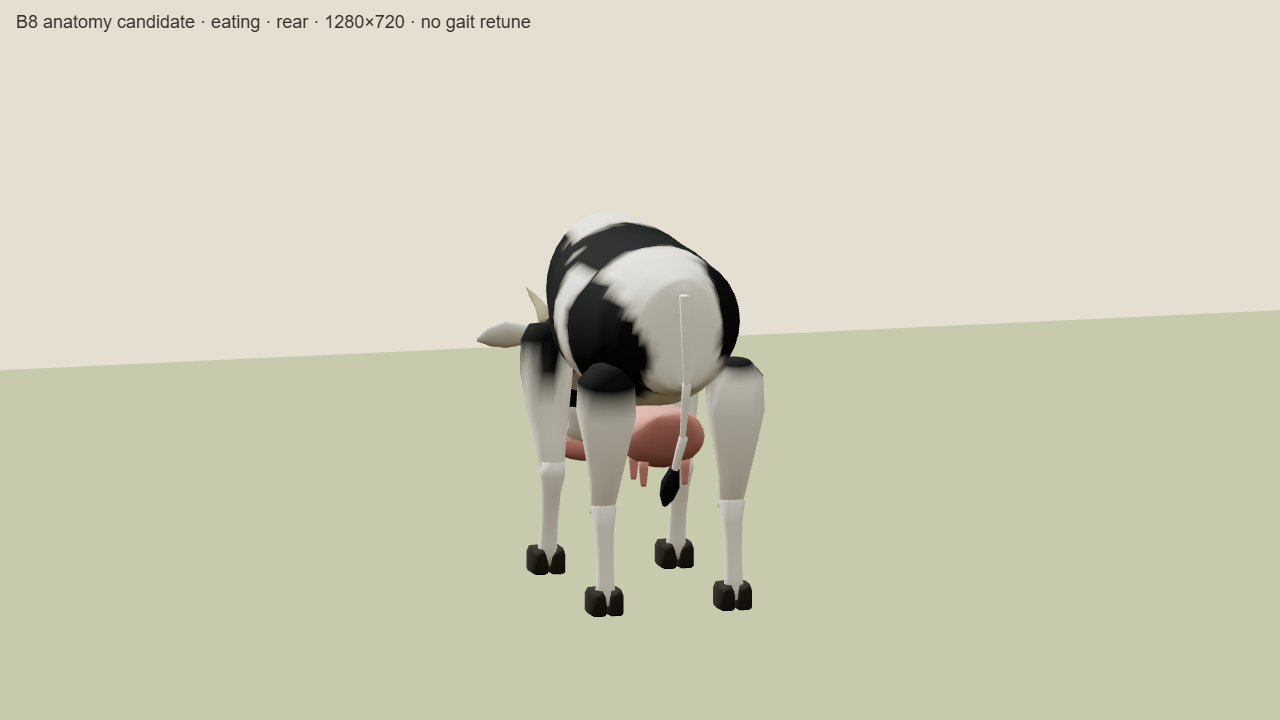
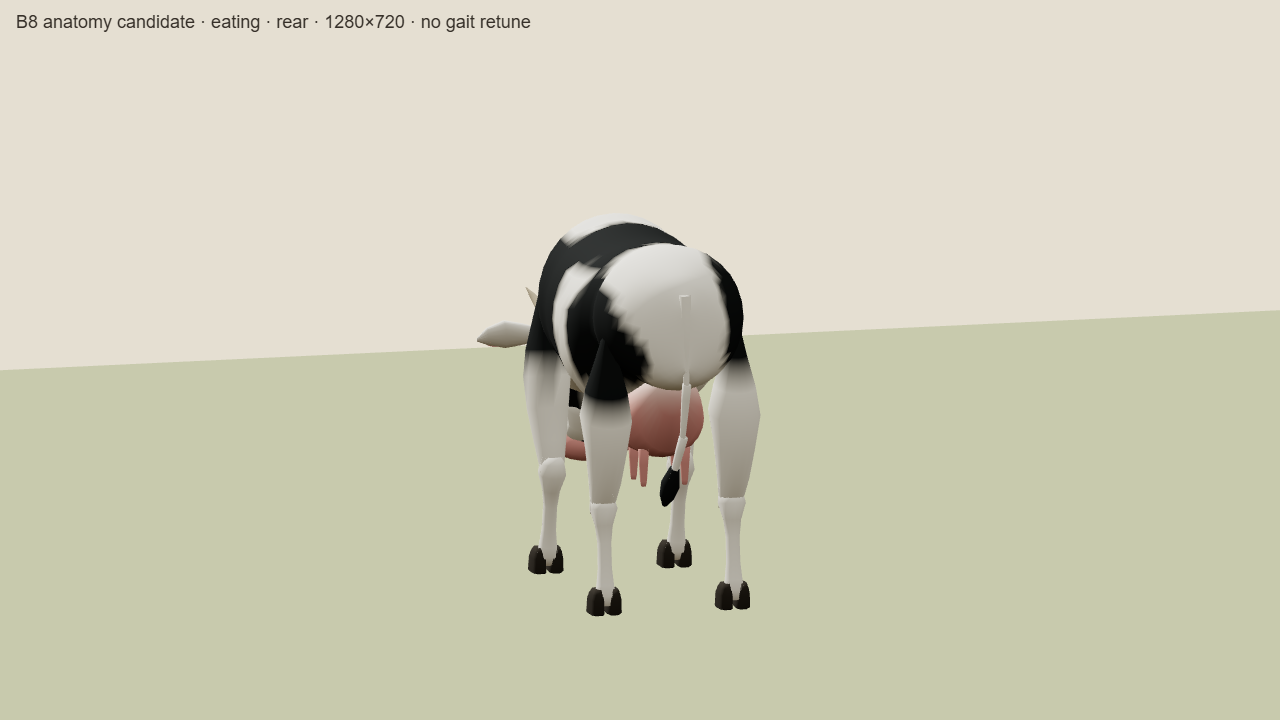
Refine B8 torso contours, hoof taper and udder attachment

diff --git a/farm3d/cow3d.js b/farm3d/cow3d.js
@@ -50,12 +50,16 @@ function buildTemplate(){
   }
   const oval=(col,p,scale,b=0,rx=0,rz=0,detail=12)=>add(new THREE.SphereGeometry(1,detail,Math.round(detail*.65)),col,p,scale,b,rx,rz);
   const subdivide=(sections,steps)=>sections.flatMap((a,i)=>i===sections.length-1?[a]:Array.from({length:steps},(_,j)=>a.map((x,k)=>mix(x,sections[i+1][k],j/steps))));
+  const smoothSections=(sections,steps)=>sections.flatMap((a,i)=>i===sections.length-1?[a]:Array.from({length:steps},(_,j)=>a.map((x,k)=>{
+    const p=sections[Math.max(0,i-1)][k],q=sections[i+1][k],r=sections[Math.min(sections.length-1,i+2)][k],t=j/steps;
+    return .5*((2*x)+(-p+q)*t+(2*p-5*x+4*q-r)*t*t+(-p+3*x-3*q+r)*t*t*t);
+  })));
   // Authored sections are [axis, transverse center1/2, radius1/2].
   // Closed, smooth section surfaces define anatomy instead of stacked spheres.
   function loft(col,axis,sections,b=0,blend=null,sides=20){
     const vertices=[],indices=[];
-    for(const [along,u,v,ru,rv] of sections)for(let j=0;j<sides;j++){
-      const a=j/sides*TAU,pu=u+Math.cos(a)*ru,pv=v+Math.sin(a)*rv;
+    for(const [along,u,v,ru,rv,lower=rv] of sections)for(let j=0;j<sides;j++){
+      const a=j/sides*TAU,s=Math.sin(a),pu=u+Math.cos(a)*ru,pv=v+s*(s<0?lower:rv);
       if(axis==='z')vertices.push(pu,pv,along);
       else if(axis==='y')vertices.push(pu,along,pv);
       else vertices.push(along,pv,pu);
@@ -75,8 +79,10 @@ function buildTemplate(){
     add(g,col,[0,0,0],[1,1,1],b,0,0,blend);
   }
   const bodyY=rest[slots.body].y;
-  const torso=[[-.64,1.16,.06,.18],[-.59,1.15,.18,.24],[-.52,1.14,.255,.305],[-.39,1.125,.27,.325],[-.23,1.115,.32,.335],[-.05,1.11,.34,.33],[.15,1.11,.335,.34],[.32,1.13,.31,.32],[.48,1.17,.29,.28],[.60,1.16,.24,.26],[.68,1.16,.16,.23],[.715,1.15,.03,.19]];
-  loft(coat,'z',subdivide(torso.map(([z,y,w,h])=>[z,0,y-bodyY,w,h]),4),slots.body,null,32);
+  // Independently shaped dorsal/ventral radii: brisket, deep ribs, rising flank,
+  // loin and pelvic hooks. Smooth longitudinal sections avoid a uniform barrel.
+  const torso=[[-.64,1.13,.075,.22,.20],[-.58,1.14,.20,.265,.28],[-.50,1.13,.275,.30,.33],[-.42,1.12,.315,.335,.335],[-.30,1.11,.32,.34,.335],[-.16,1.11,.335,.34,.365],[.03,1.10,.343,.345,.395],[.20,1.13,.33,.325,.345],[.32,1.17,.27,.29,.28],[.43,1.20,.305,.28,.27],[.53,1.185,.292,.285,.255],[.62,1.175,.255,.26,.25],[.695,1.16,.175,.225,.205],[.735,1.155,.08,.17,.16],[.755,1.155,.015,.13,.13]];
+  loft(coat,'z',smoothSections(torso.map(([z,y,w,top,bottom])=>[z,0,y-bodyY,w,top,bottom]),3),slots.body,null,32);
   // Neck overlaps the chest internally; dominant neck weights retain its hit contract.
   loft(coat,'z',subdivide([
     [.14,0,.01,.215,.23],[.07,0,.04,.205,.22],[-.01,0,.08,.195,.205],
@@ -109,31 +115,35 @@ function buildTemplate(){
     oval(ink,[side*.145,.081,-.121],[.04,.012,.023],slots.head,0,0,12);
   }
   // A small forelock follows the refined poll rather than a round hair helmet.
-  for(let i=0;i<3;i++)oval(0xe7dfc8,[(i-1)*.035,.251,-.085],[.030,.026,.035],slots.head,0,0,10);
-  const udder=(x,y,z)=>{const centerGroove=Math.exp(-x*x/.0005)*.045;matCol.setHex(pink).multiplyScalar(1-centerGroove);return matCol;};
-  loft(udder,'z',[[.10,0,.76,.07,.035],[.17,0,.71,.14,.09],[.27,0,.69,.175,.12],[.38,0,.69,.17,.12],[.48,0,.735,.13,.09],[.53,0,.79,.065,.03]],0,(x,y,z)=>[[slots.body,.85],[0,.15]],24);
-  for(const x of [-.085,.085])for(const z of [.23,.39])loft(pink,'y',[[.50,x,z,.010,.010],[.515,x,z,.014,.014],[.57,x,z,.019,.019],[.60,x,z,.023,.023]],0,()=>[[slots.body,.85],[0,.15]],10);
+  for(let i=0;i<3;i++)oval(0xe7dfc8,[(i-1)*.035,.251,-.085],[.030,.026,.035],slots.head,0,0,8);
+  const udder=(x,y,z)=>{const centerGroove=Math.exp(-x*x/.0005)*.045;matCol.setHex(pink).lerp(white,clamp((y-.81)/.13,0,1)*.55).multiplyScalar(1-centerGroove);return matCol;};
+  // The broad upper attachment penetrates the belly and rear flank; the lower
+  // quarters stay compact and carry four attached teats rather than a hung orb.
+  loft(udder,'z',[[.08,0,.785,.065,.11,.045],[.15,0,.745,.14,.14,.09],[.26,0,.735,.185,.15,.125],[.37,0,.76,.17,.17,.15],[.47,0,.82,.135,.155,.17],[.53,0,.88,.065,.08,.08]],0,(x,y,z)=>[[slots.body,.85],[0,.15]],24);
+  for(const x of [-.085,.085])for(const z of [.23,.39])loft(pink,'y',[[.50,x,z,.010,.010],[.52,x,z,.014,.014],[.59,x,z,.019,.019],[.65,x,z,.023,.023]],0,()=>[[slots.body,.85],[0,.15]],10);
   for(const [i,l]of slots.legs.entries()){
     const rear=i>=2,base=rest[l.hip];
-    const upper=[[-.38,0,0,.044,.048],[-.33,0,rear?.025:0,.052,.057],[-.22,0,rear?.035:0,.065,.074],[-.10,0,rear?.028:-.015,.087,.10],[.05,0,0,rear?.12:.105,rear?.135:.12],[.18,0,-.008,rear?.115:.10,rear?.125:.10],[.24,0,-.01,.065,.068]];
+    const upper=[[-.38,0,0,.044,.048],[-.32,0,rear?.025:0,.052,.058],[-.23,0,rear?.035:-.005,.065,.076],[-.10,0,rear?.028:-.015,.083,.10],[.03,0,0,rear?.105:.095,rear?.12:.11],[.14,0,-.008,rear?.085:.080,rear?.10:.095],[.27,0,-.01,.047,.053],[.40,0,-.01,.012,.022]];
     loft(coat,'y',upper,l.hip,(x,y,z)=>{
       const local=y-base.y,body=clamp((local-.02)/.20,0,1)*.45,knee=clamp((-local-.25)/.13,0,1)*.3;
       return [[l.hip,1-body-knee],[slots.body,body],[l.knee,knee]];
     },16);
-    const shin=[[-.39,0,-.01,.033,.035],[-.345,0,-.004,.044,.050],[-.30,0,rear?.008:0,.036,.040],[-.20,0,rear?.024:0,.034,.039],[-.08,0,rear?.036:0,.039,.048],[.0,0,rear?.037:0,.053,.065],[.055,0,.01,.048,.049]];
+    const shin=[[-.39,0,-.006,.032,.035],[-.35,0,-.002,.045,.047],[-.31,0,rear?.005:0,.037,.040],[-.24,0,rear?.014:0,.029,.034],[-.14,0,rear?.026:0,.028,.036],[-.07,0,rear?.033:0,.036,.045],[.0,0,rear?.041:.003,.057,.070],[.045,0,rear?.025:0,.050,.060],[.075,0,.005,.040,.045]];
     const kneeRest=rest[l.knee];
     loft(cream,'y',shin,l.knee,(x,y,z)=>{
       const local=y-kneeRest.y,hip=clamp((local+.02)/.08,0,1)*.35,foot=clamp((-local-.29)/.10,0,1)*.3;
       return [[l.knee,1-hip-foot],[l.hip,hip],[l.foot,foot]];
-    },14);
+    },12);
     // Separate cloven claws with bevels and an exactly flat sole, rigidly skinned.
     for(const side of [-1,1]){
-      const outline=[[-.028,-.080],[.020,-.091],[.032,-.061],[.032,.040],[.014,.064],[-.025,.057],[-.030,-.02]];
-      const vertices=[],indices=[],ys=[-.055,-.048,.021,.046],sizes=[.9,1,1,.78];
-      for(let r=0;r<4;r++)for(const [x,z]of outline)vertices.push(side*.035+x*sizes[r],ys[r],z*sizes[r]-.01);
-      for(let r=0;r<3;r++)for(let j=0;j<7;j++){const a=r*7+j,c=r*7+(j+1)%7;indices.push(a,c,a+7,c,c+7,a+7);}
-      for(const [ring,reverse]of [[0,true],[3,false]])for(let j=1;j<6;j++)indices.push(...(reverse?[ring*7,ring*7+j+1,ring*7+j]:[ring*7,ring*7+j,ring*7+j+1]));
-      for(let j=0;j<indices.length;j+=3)[indices[j+1],indices[j+2]]=[indices[j+2],indices[j+1]];
+      const outline=[[-.022,-.066],[.005,-.083],[.025,-.076],[.032,-.048],[.030,.022],[.014,.049],[-.019,.045],[-.027,.005]];
+      const vertices=[],indices=[],ys=[-.055,-.049,.005,.030,.050],sizes=[.85,1,.94,.77,.52],count=outline.length;
+      // Mirrored claws taper into the coronary band, with a longer rounded toe
+      // and inset heel. Only their rigid sole retains the exact contact plane.
+      for(let r=0;r<ys.length;r++)for(const [x,z]of outline)vertices.push(side*(.033+x*sizes[r]),ys[r],z*sizes[r]-.012+r*.004);
+      for(let r=0;r<ys.length-1;r++)for(let j=0;j<count;j++){const a=r*count+j,c=r*count+(j+1)%count;indices.push(a,c,a+count,c,c+count,a+count);}
+      for(const [ring,reverse]of [[0,true],[ys.length-1,false]])for(let j=1;j<count-1;j++)indices.push(...(reverse?[ring*count,ring*count+j+1,ring*count+j]:[ring*count,ring*count+j,ring*count+j+1]));
+      if(side>0)for(let j=0;j<indices.length;j+=3)[indices[j+1],indices[j+2]]=[indices[j+2],indices[j+1]];
       const g=new THREE.BufferGeometry();g.setAttribute('position',new THREE.Float32BufferAttribute(vertices,3));g.setIndex(indices);g.computeVertexNormals();add(g,0x413c34,[0,0,0],[1,1,1],l.foot);
     }
   }

diff --git a/farm3d/evidence/cow-b2-b8/README.md b/farm3d/evidence/cow-b2-b8/README.md
@@ -1,9 +1,11 @@
 # B2–B8 runtime anatomy candidate
 
 Base: owner-merged B0/B1 PR53, `18763e21889177dadd72f4469c75716d32a3f677`.
-This adopts its actual rendered B1 reference in `cow3d.js`. The runtime source
-matches the merged reference text after normalizing line endings. The B0
-control and B1 comparisons remain immutable in their original evidence folders.
+The first runtime candidate adopted its rendered B1 reference. The owner rated
+that candidate's side view86/100, below the roughly90/100 B8 visual gate, and
+requested further static anatomy refinement inside PR55. This revision changes
+the geometry beyond the reference while preserving its exact public/motion code
+and gait constants. B0 and B1 evidence remains immutable.
 
 Closed section meshes shape the torso, skull/neck, upper/lower limbs, two claws
 per hoof, ears, udder/four teats and tail. Selective transition weights blend
@@ -13,10 +15,27 @@ speeds, collision, routes, species values, saves and economy remain unchanged.
 One shared geometry/material and one pickable skinned visual remain synchronous;
 no textures or loaders are added. Cow imports move to v3 and cache sa3d-v41.
 
+The refinement gives the torso separate dorsal/ventral contours: deeper ribs,
+a rising flank, distinct shoulder/chest and pelvic hooks, and a level loin.
+Claws have rounded toes, inset heels and tapered coronary bands; cannons and
+hocks/fetlocks have cleaner taper. Upper limb caps penetrate the body. The
+udder's upper attachment overlaps the actual belly/rear flank, with four
+attached teats and a softer color transition. A lower forelock tessellation
+and redistributed ring samples fund the detail within the frozen budget.
+
+The original technically green but visually unapproved candidate is preserved
+at `ac8a73b3373158c27ead46398e7811d80fdd5b52`, including all images and
+measurements. [Original86/100 side](https://github.com/pederaus9-ux/Bugsy/blob/ac8a73b3373158c27ead46398e7811d80fdd5b52/farm3d/evidence/cow-b2-b8/cow-anatomy-1280-idle-side.png)
+can be compared against the current side capture below, with identical camera,
+lighting, pose, viewport and drawing buffer. Its ten green hosted jobs do not
+validate this newer source. No owner score or B8 approval is claimed for it.
+
 ## Local engineering evidence
 
-The rebased candidate passed56core units, including three new anatomy checks,
-and the existing browser game/normal-guest/save/shed/cow integration checks.
+The original rebased candidate passed56core units and its ten hosted jobs.
+The refinement passes57core units, including an additional real surface-ray
+attachment test and an exact public/motion-source guard. Fresh existing browser
+game/normal-guest/save/shed/cow integration checks passed on the revision.
 Cow picking, measured movement after collision, blocking without false strides,
 standalone preview controls and optional painted comparison all passed at
 740×360,844×390 and1280×720. Existing tests, tolerances and job limits are intact.
@@ -25,8 +44,9 @@ The new stationary renderer produced16views: idle/eating × front/side/rear/
 three-quarter at844×390 and1280×720. All16images were inspected. These images
 use exact full drawing buffers and pixel ratio1. Thirty additional rig creation/
 double-disposal cycles per view caused no geometry/texture growth. The cow costs
-10,472triangles versus B0's10,592, with one cow draw and24bones. The test floor
-adds a second draw. Shadowed cow preview costs20,944triangles/two draws.
+10,576triangles versus B0's10,592, with one cow draw and24bones. The test floor
+adds a second draw. Shadowed cow preview costs21,152triangles/two draws, below
+the frozen cow's21,184. Hoof soles stay at their original localY=-.055 plane.
 Local update timings are CPU-only software-renderer observations, not S26 FPS.
 
 `cow-anatomy-static.json` scans every actual skinned vertex at height1.7:
@@ -34,7 +54,7 @@ Local update timings are CPU-only software-renderer observations, not S26 FPS.
 | Axis | Minimum | Maximum |
 | --- | ---: | ---: |
 | X | -.40611112 | .40611112 |
-| Y | .00009090 | 1.60083338 |
+| Y | .00010323 | 1.60083338 |
 | Z | -1.09272217 | .72256106 |
 
 These are game coordinates, not calibrated physical meters or conservative
@@ -44,6 +64,14 @@ Unit checks cover manifold/winding/nondegenerate faces, normalized finite weight
 bilateral body/udder, actual neutral envelope, eyes overlapping skull surface,
 head/neck/body picking and continuous limb rays, rigid cloven sole surfaces,
 independent skeletons, finite head/graze/rest transitions and idempotent disposal.
+Actual ray intersections also prove the udder attachment penetrates the belly
+at four longitudinal stations, each teat overlaps an udder quarter and the
+tail root lies inside the rump. The whole creation/update/disposal source suffix
+and gait constants compare exactly with the immutable B1 reference text.
+[Actual attachment comparison](attachment-comparison.json) shows the original
+udder gap reached .0613 game coordinates at height1.8; the refined upper
+attachment overlaps the belly at every tested station. This new test would
+reject the original detached rear attachment rather than just mirror the code.
 
 ## Rendered review
 
@@ -57,7 +85,9 @@ independent skeletons, finite head/graze/rest transitions and idempotent disposa
 Reproduce with `npm run test:core:game` in `farm3d/tests`; the individual static
 checks are `node --test cow-anatomy.test.mjs` and `node cow-anatomy.browser.cjs`.
 Browser outputs use `TEST_ARTIFACTS` or the existing `tests/artifacts` default.
-Hosted results must still pass at the exact published head before readiness.
+Hosted results must pass at the new exact published head before readiness.
+The owner also requires roughly90/100 static anatomy. Technical checks alone
+cannot meet this visual gate; the refinement remains unapproved/unmerged.
 
 Earlier prototype eye attachment failures and B0 stop/recovery/run-start failures
 remain preserved in the parent workspace. This PR has no gait retune. B9–B12

diff --git a/farm3d/PROGRAM_STATUS.md b/farm3d/PROGRAM_STATUS.md
@@ -92,7 +92,7 @@ bytes were unavailable, so no exact match to an unseen reference is asserted.
 Cow B0/B1 PR #53 is merged by the owner at `18763e21889177dadd72f4469c75716d32a3f677`.
 Its tested/merged tree matches; all ten exact-head checks and Pages passed, and
 twenty-five live game/evidence files match source. The merged-main regression
-is still running. It freezes actual skinned bounds and known stop/recovery and
+passes all seven jobs. It freezes actual skinned bounds and known stop/recovery and
 run-start cadence gaps, specifies measurable proportions, and supplies matched
 front/side/rear renderer comparisons. The proposal fits the old neutral envelope
 with the original .002 numerical tolerance at height1.7, 24 bones and one cow
@@ -105,11 +105,28 @@ tail, with selective transition weights and rigid hoof soles. Public creation,
 update, gait and visual behavior code stays unchanged; the existing AI, movement
 speeds, collision, saves, picking and shared-resource ownership remain protected.
 The candidate imports cow v3 and caches sa3d-v41 deliberately; it is not live
-until its own specifically approved merge and verified deployment. The preserved
-prototype and fresh rebased candidate passed56 local core units, normal game
-integration/save/picking checks and sixteen full-resolution anatomy/grazing
-views. All16views were inspected; exact published-head hosted checks remain
-required. Reviewable captures and measurements are in evidence/cow-b2-b8.
+until its own specifically approved merge and verified deployment. PR55's first
+head ac8a73b passed all ten hosted jobs and its full artifacts were inspected,
+but the owner rated its side view86/100 and withheld B8 approval. The newer
+direct human gate confirms B8 refinement inside the same PR55: roughly90/100
+static anatomy plus unchanged full exact-head CI, then specifically approved
+merge before B9. Earlier torso-only scope was superseded by that B8 direction.
+
+The refinement shapes deep ribs, rising flank, shoulder/chest and pelvis;
+rounded tapered cloven claws, lower limbs and a broad overlapping udder
+attachment. It passes57 local core units and16 full-resolution stationary/
+grazing views with30 rebuilds per view; all16 images were inspected. The
+geometry costs10,576triangles versus frozen10,592,24bones/one cow draw, with
+rigid original sole planes. New actual surface rays test udder/teat/tail
+attachment, and the full public/motion/disposal suffix plus gait constants
+must equal the immutable B1 text. Existing tests/budgets remain intact. Fresh
+full core game/normal-save/reload/shed/cow integration passed at740/844/1280;
+actual preview and normal game captures were inspected. All ten new exact-head
+hosted checks remain required before readiness. Owner visual/merge approval is
+still pending; no score is assigned to the refinement by these tests.
+Reviewable captures and measurements are in evidence/cow-b2-b8. The old86/100
+source/16images/measurements remain recoverable at its pinned head; local
+refinement seam failures are also preserved outside the repository.
 B8 anatomy must pass before B9 gait tuning. B0's stop/recovery and run-start
 failures are preserved for B9–B12; no tolerance or old test is weakened.
 B13–B18 behavior, long simulation, full regression and final owner/device
